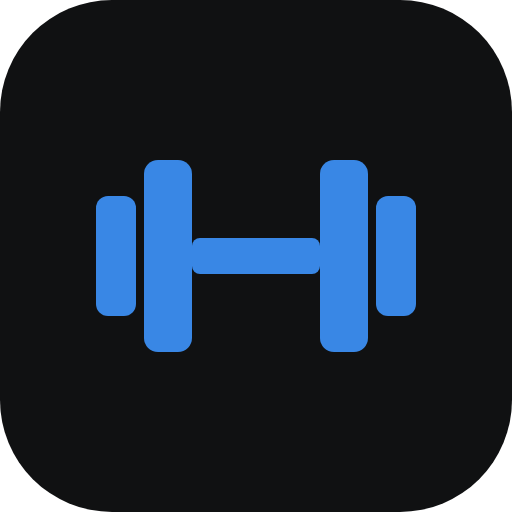
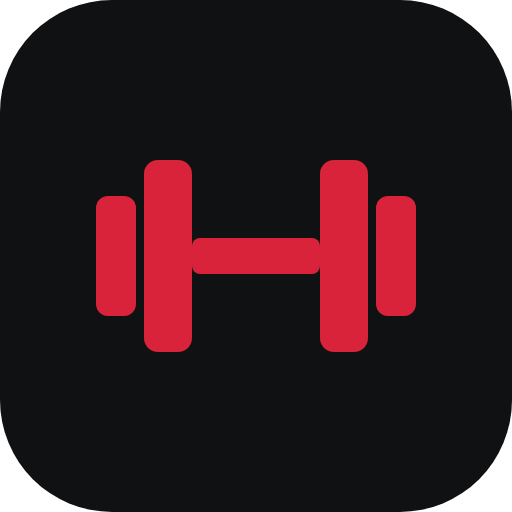
Nueva paleta: carmesí como color principal y dorado para logros
Claude-Session: https://claude.ai/code/session_012R5PbKk1Cbng9ofNXqmZjr

Changed region(s): [[0.1875, 0.3125, 0.8125, 0.6875]]

diff --git a/css/styles.css b/css/styles.css
@@ -7,20 +7,21 @@
   --text: #0b0b0b;
   --text-2: #52514e;
   --text-3: #7a7974;
-  --accent: #2a78d6;
+  --accent: #c8102e;
   --accent-ink: #ffffff;
-  --accent-soft: #dce9f9;
+  --accent-soft: #fbe1e4;
   --good: #0c8a0c;
   --good-soft: #dff2df;
   --danger: #d03b3b;
-  --series-1: #2a78d6;
-  --series-2: #eb6834;
+  --gold: #b8861b;
+  --series-1: #c8102e;
+  --series-2: #c9962e;
   --grid: #e7e6e2;
   --heat-0: #ebeae6;
-  --heat-1: #b7d3f6;
-  --heat-2: #6da7ec;
-  --heat-3: #2a78d6;
-  --heat-4: #184f95;
+  --heat-1: #f6c3ca;
+  --heat-2: #e8758a;
+  --heat-3: #c8102e;
+  --heat-4: #7d0a1d;
   --shadow: 0 1px 2px rgb(0 0 0 / 6%), 0 4px 16px rgb(0 0 0 / 5%);
   --radius: 14px;
   --tabbar-h: 64px;
@@ -36,20 +37,21 @@
     --text: #ffffff;
     --text-2: #c3c2b7;
     --text-3: #8f8e86;
-    --accent: #3987e5;
+    --accent: #d9233a;
     --accent-ink: #ffffff;
-    --accent-soft: #1b2f49;
+    --accent-soft: #361519;
     --good: #0ca30c;
     --good-soft: #15321a;
     --danger: #e66767;
-    --series-1: #3987e5;
-    --series-2: #d95926;
+    --gold: #e0b04a;
+    --series-1: #e0344a;
+    --series-2: #e0b04a;
     --grid: #2a2a28;
     --heat-0: #262624;
-    --heat-1: #184f95;
-    --heat-2: #256abf;
-    --heat-3: #3987e5;
-    --heat-4: #86b6ef;
+    --heat-1: #6b1d27;
+    --heat-2: #a11f33;
+    --heat-3: #d9233a;
+    --heat-4: #ef6a7a;
     --shadow: none;
   }
 }
@@ -62,20 +64,21 @@
   --text: #ffffff;
   --text-2: #c3c2b7;
   --text-3: #8f8e86;
-  --accent: #3987e5;
+  --accent: #d9233a;
   --accent-ink: #ffffff;
-  --accent-soft: #1b2f49;
+  --accent-soft: #361519;
   --good: #0ca30c;
   --good-soft: #15321a;
   --danger: #e66767;
-  --series-1: #3987e5;
-  --series-2: #d95926;
+  --gold: #e0b04a;
+  --series-1: #e0344a;
+  --series-2: #e0b04a;
   --grid: #2a2a28;
   --heat-0: #262624;
-  --heat-1: #184f95;
-  --heat-2: #256abf;
-  --heat-3: #3987e5;
-  --heat-4: #86b6ef;
+  --heat-1: #6b1d27;
+  --heat-2: #a11f33;
+  --heat-3: #d9233a;
+  --heat-4: #ef6a7a;
   --shadow: none;
 }
 
@@ -456,7 +459,7 @@ body.no-scroll { overflow: hidden; }
 }
 .win-week .dots { display: inline-flex; gap: 6px; }
 .win-week .dots i { width: 12px; height: 12px; border-radius: 50%; background: var(--border); }
-.win-week .dots i.on { background: #f5821f; }
+.win-week .dots i.on { background: var(--gold); }
 .win-phrase { font-style: italic; color: var(--text-2); margin: 16px 8px 20px; }
 .win-done { min-height: 54px; font-size: 1.05rem; border-radius: 14px; }
 @media (prefers-reduced-motion: reduce) {
@@ -645,7 +648,7 @@ body.in-session .toast.show { transform: translateX(-50%) translateY(0); }
 .plan-card .plan-progress { display: flex; align-items: center; gap: 10px; margin-top: 12px; }
 .plan-progress .dots, .win-week .dots { display: inline-flex; gap: 6px; }
 .plan-progress .dots i { width: 10px; height: 10px; border-radius: 50%; background: var(--border); }
-.plan-progress .dots i.on { background: var(--good); }
+.plan-progress .dots i.on { background: var(--gold); }
 .plan-week { background: var(--surface); border: 1px solid var(--border); border-radius: 18px; overflow: hidden; }
 .plan-day {
   display: flex; align-items: center; gap: 12px; width: 100%; padding: 12px 14px; min-height: 64px;
@@ -691,15 +694,15 @@ button.plan-day:active { background: var(--surface-2); }
 .celebrate { padding-bottom: calc(env(safe-area-inset-bottom) + 96px); }
 .win-glow {
   position: fixed; left: 0; right: 0; top: 0; height: 55vh; pointer-events: none; z-index: 0;
-  background: radial-gradient(120% 80% at 50% 0%, color-mix(in srgb, #b8e62e 32%, transparent), transparent 70%);
+  background: radial-gradient(120% 80% at 50% 0%, color-mix(in srgb, var(--gold) 30%, transparent), transparent 70%);
 }
 .win-check {
   width: 92px; height: 92px; margin: 18px auto 14px; border-radius: 50%; display: grid; place-items: center;
-  background: color-mix(in srgb, #b8e62e 22%, transparent);
+  background: color-mix(in srgb, var(--gold) 22%, transparent);
   animation: check-pop 0.45s cubic-bezier(.2,1.4,.4,1) both;
 }
-.win-check span { width: 66px; height: 66px; border-radius: 50%; display: grid; place-items: center; background: #c4f13a; box-shadow: 0 0 32px color-mix(in srgb, #c4f13a 55%, transparent); }
-.win-check svg { width: 34px; height: 34px; fill: #0b0b0b; }
+.win-check span { width: 66px; height: 66px; border-radius: 50%; display: grid; place-items: center; background: #e0b04a; box-shadow: 0 0 32px color-mix(in srgb, #e0b04a 55%, transparent); }
+.win-check svg { width: 34px; height: 34px; fill: #1a1206; }
 @keyframes check-pop { from { transform: scale(0.4); opacity: 0; } to { transform: none; opacity: 1; } }
 .win-title { font-size: clamp(1.25rem, 6vw, 1.55rem); margin: 0 0 2px; white-space: nowrap; }
 .win-sub { color: var(--text-3); font-size: 0.92rem; }
@@ -718,7 +721,7 @@ button.plan-day:active { background: var(--surface-2); }
 .win-ex .meta { display: block; font-size: 0.85rem; color: var(--text-3); margin-top: 2px; }
 .win-pr { font-size: 0.85rem; }
 .win-week { border-radius: 18px; border-color: transparent; background: var(--surface-2); margin-top: 18px; }
-.win-week .dots i.on { background: #9fcc1f; }
+
 .win-phrase { font-style: normal; color: var(--text-3); font-size: 0.9rem; margin: 14px 8px 0; }
 .win-foot {
   position: fixed; left: 0; right: 0; bottom: 0; z-index: 2; padding: 12px 16px calc(env(safe-area-inset-bottom) + 12px);

diff --git a/sw.js b/sw.js
@@ -3,7 +3,7 @@
 // y, si no hay conexión o tarda demasiado, la copia guardada.
 // Librerías del CDN: primero la copia guardada (nunca cambian de versión).
 // Las peticiones a Supabase (datos y sesión) nunca se guardan en caché.
-const CACHE = 'gymtrack-v19';
+const CACHE = 'gymtrack-v20';
 const SHELL = [
   './', 'index.html', 'css/styles.css', 'manifest.webmanifest', 'icons/icon.svg',
   'js/app.js', 'js/store.js', 'js/charts.js', 'js/cloud.js', 'js/config.js',
